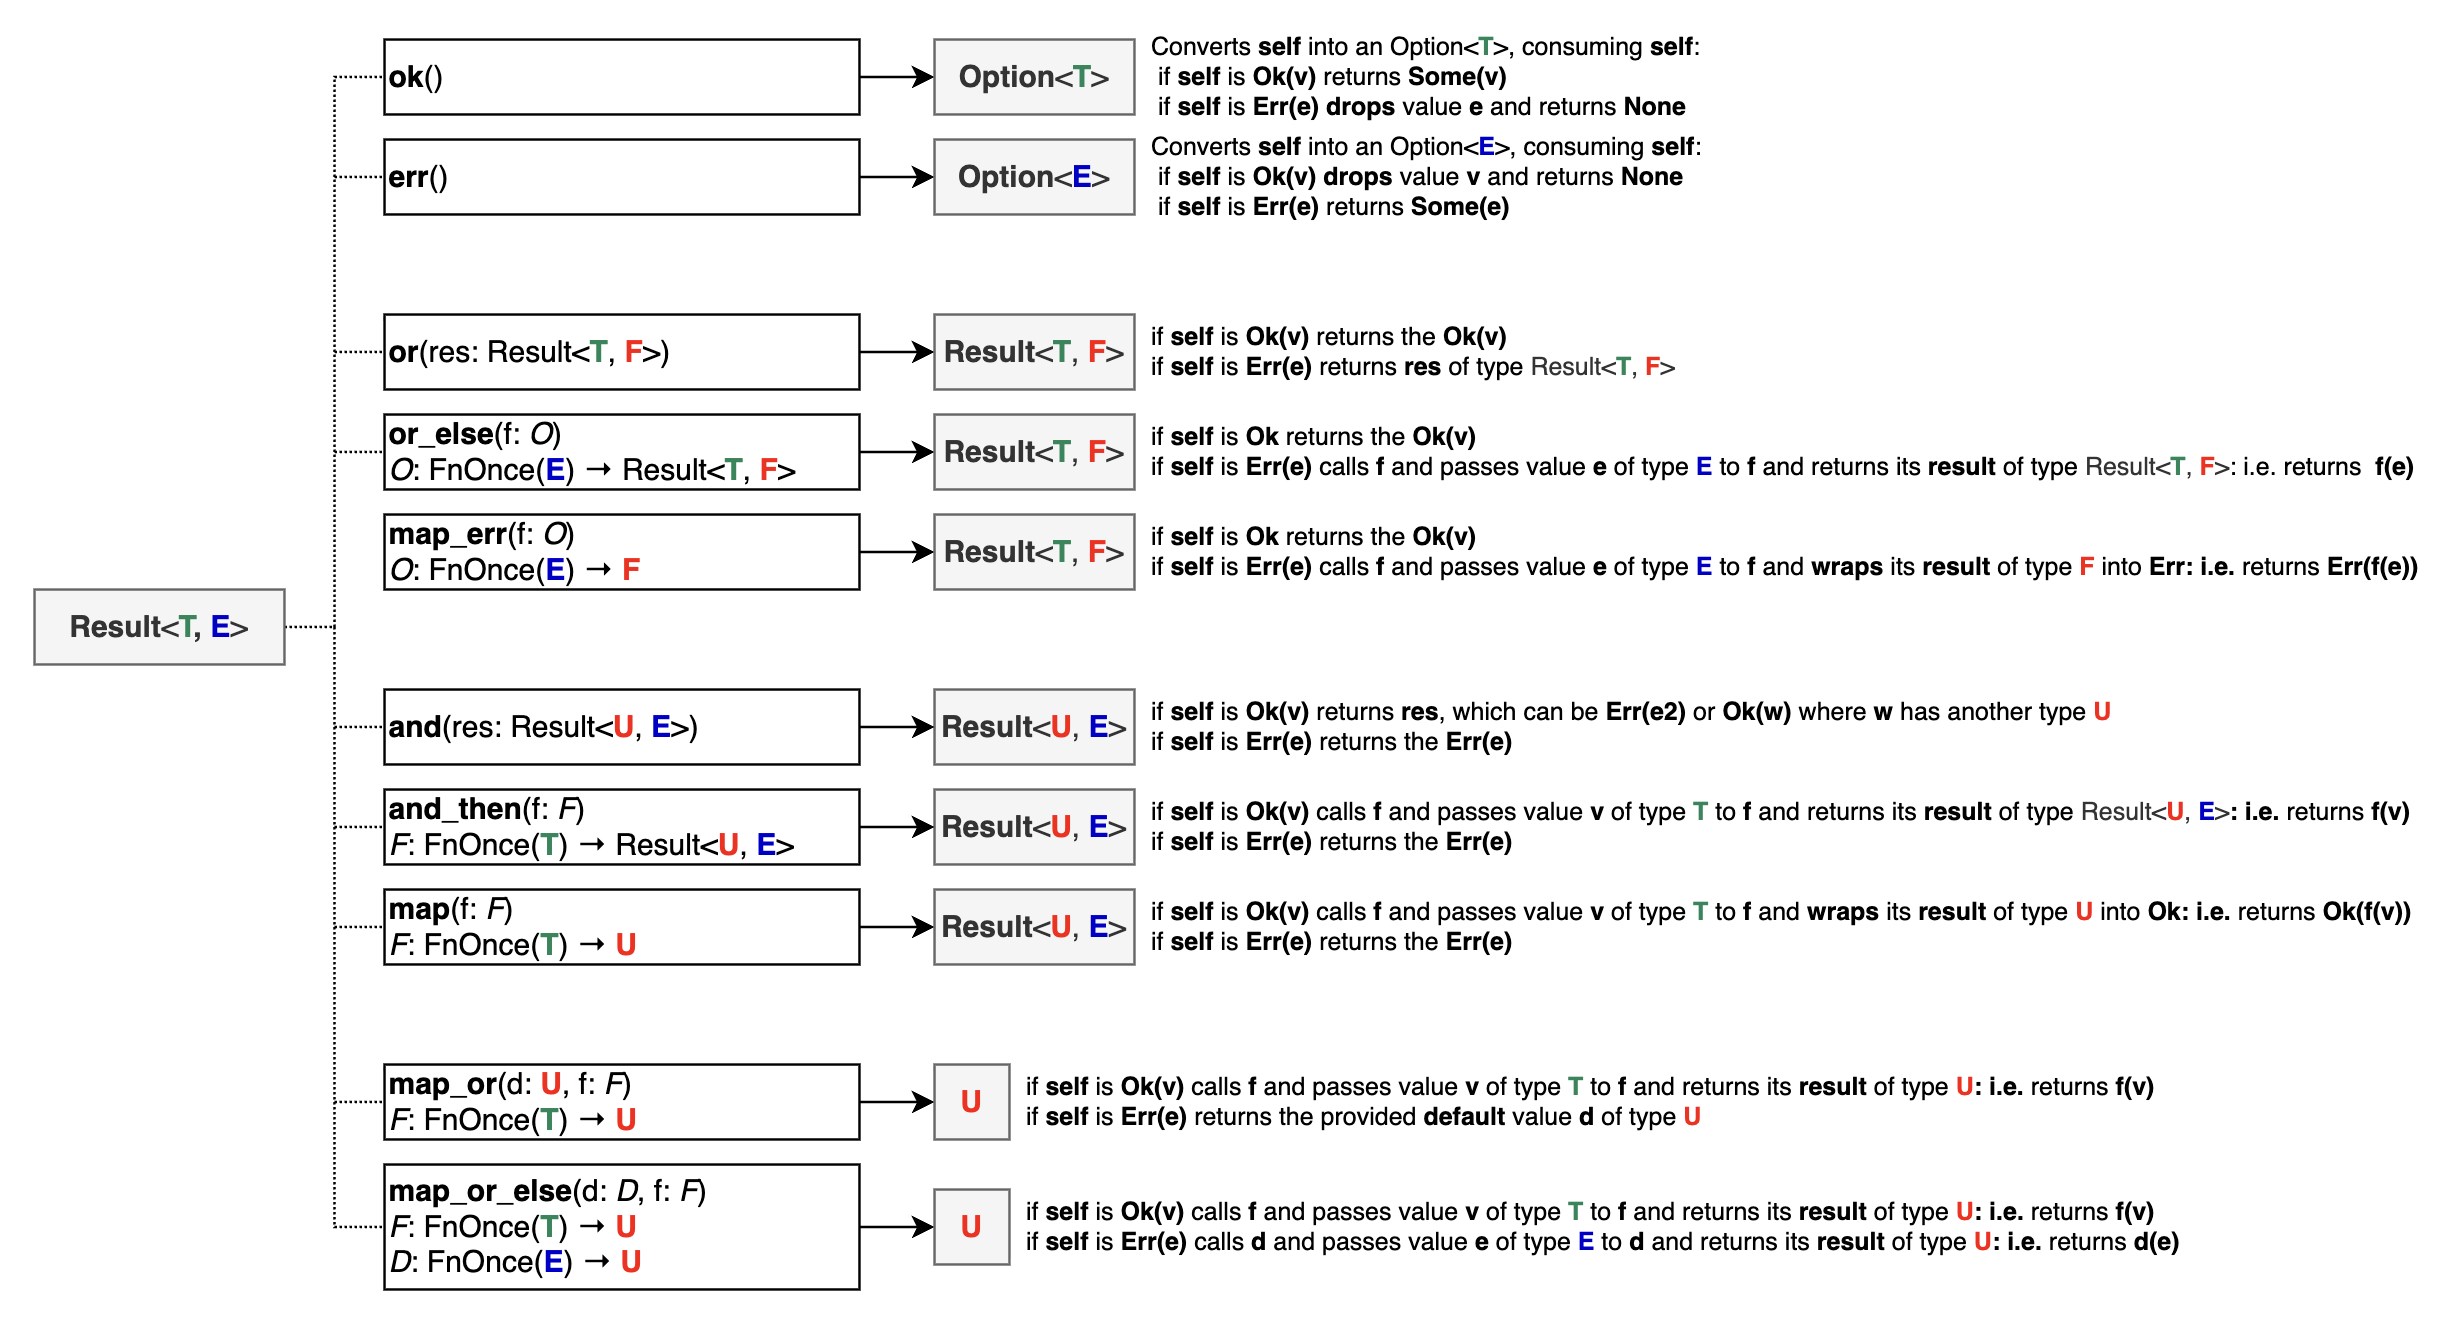
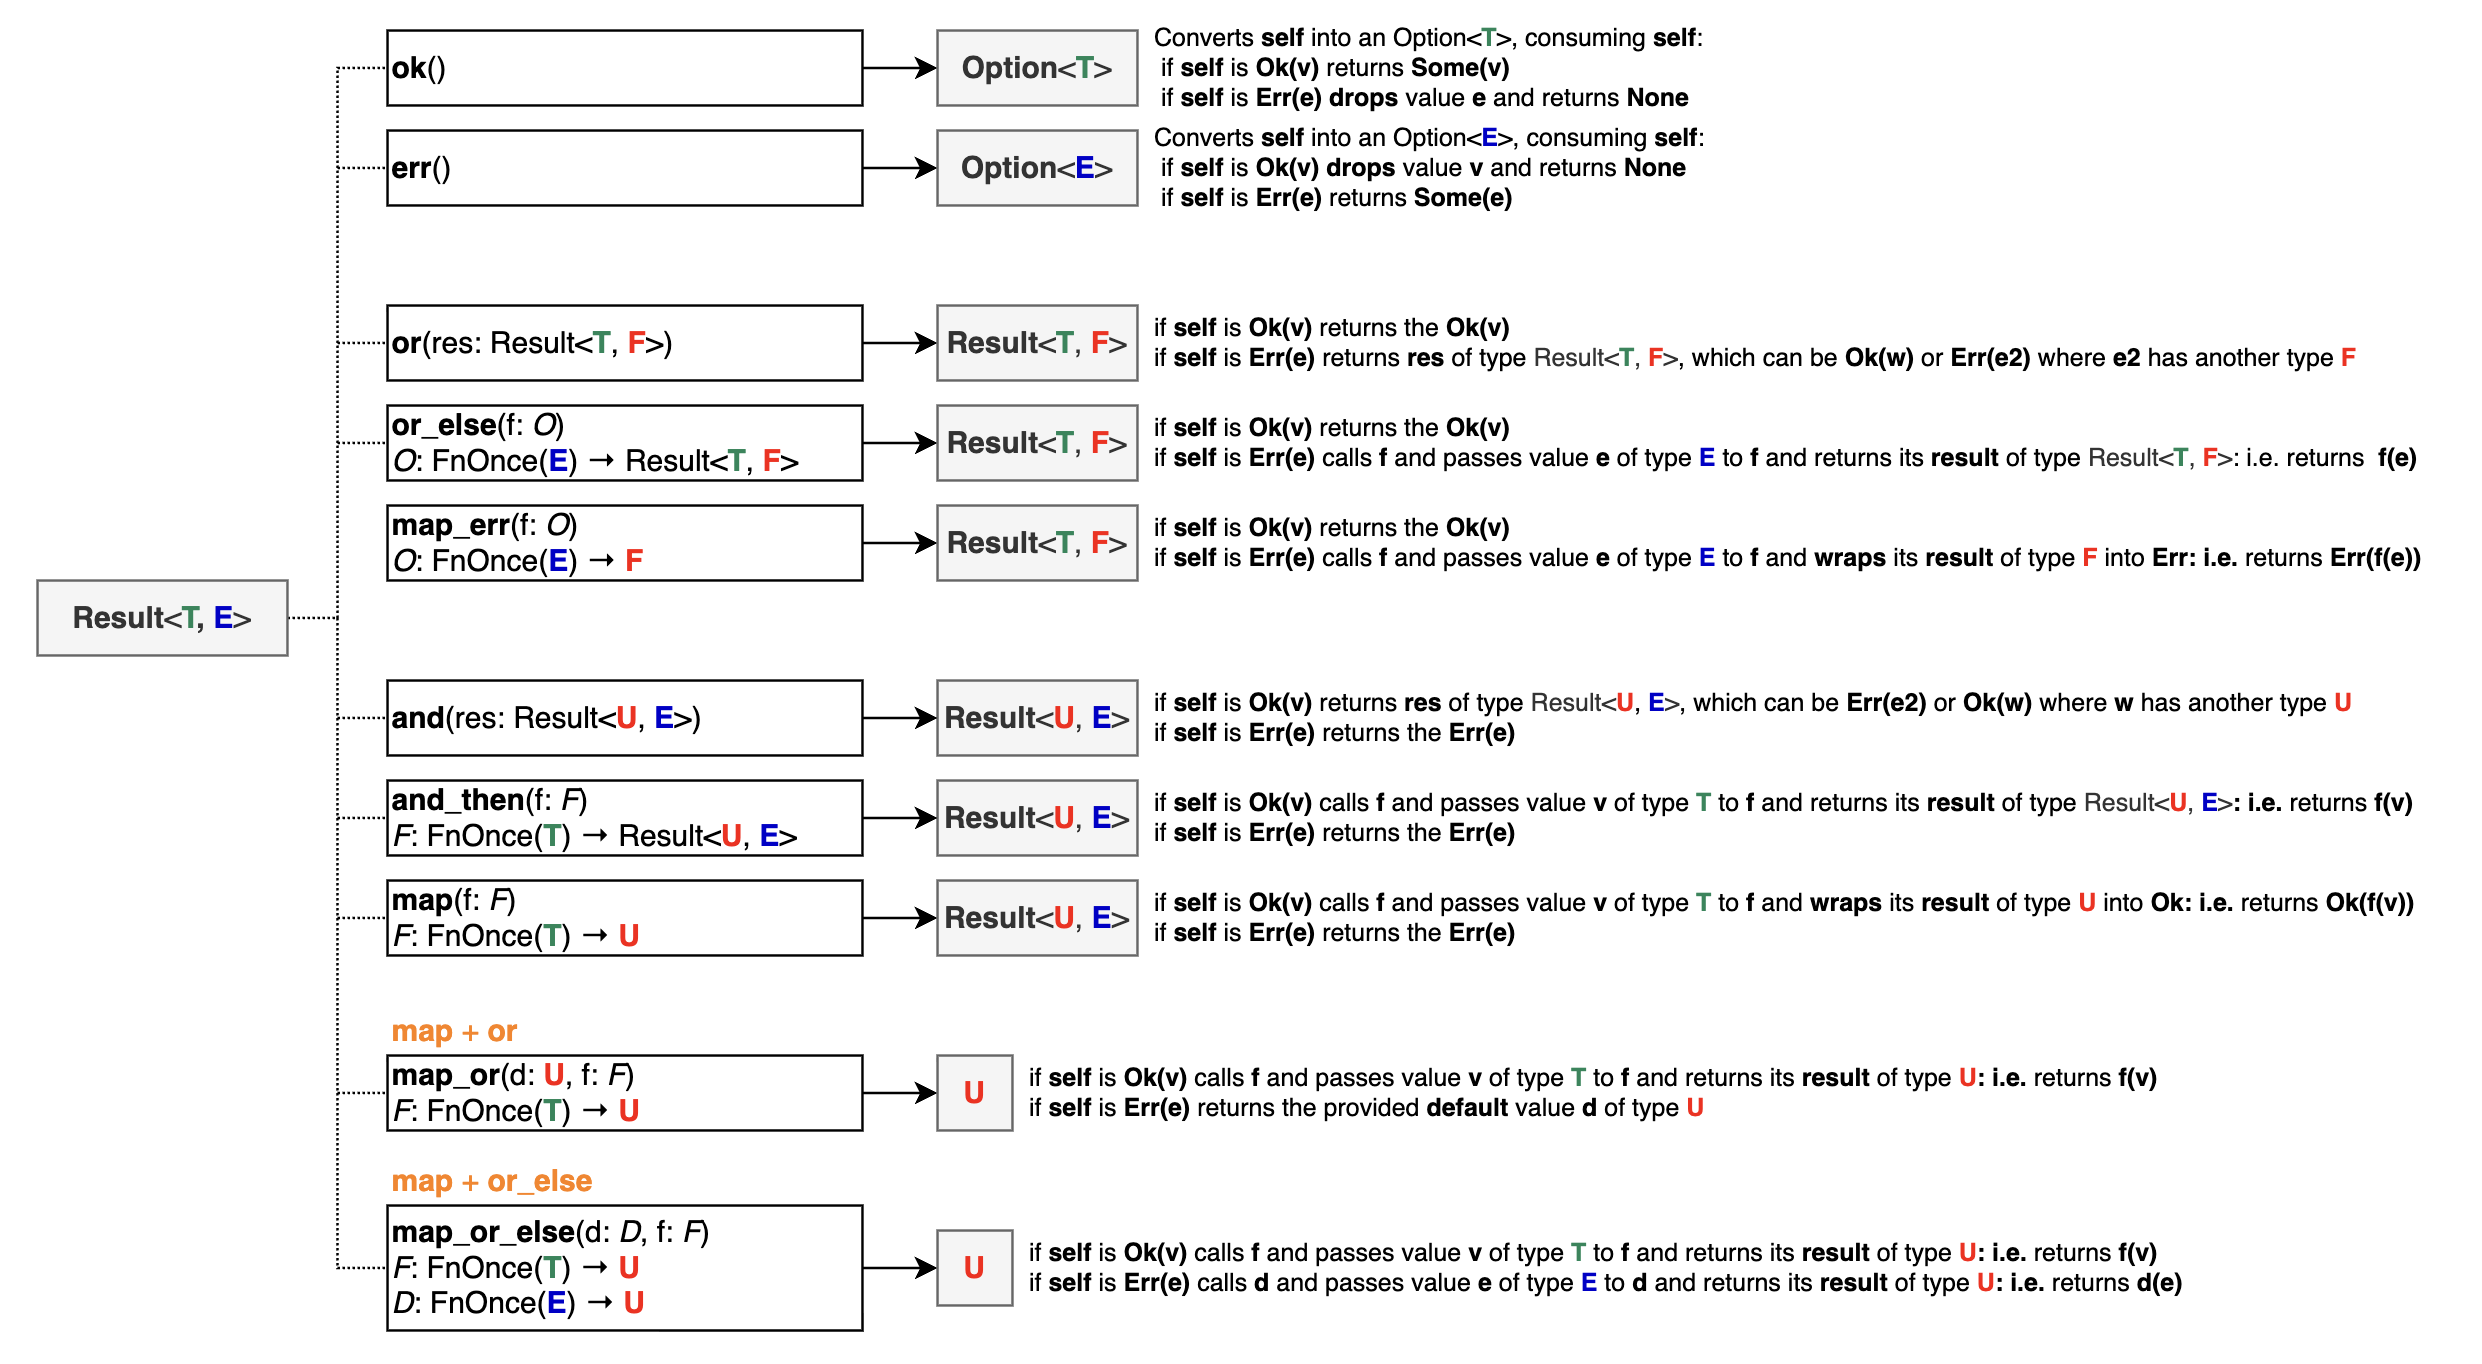
result + option

diff --git a/types/option-and-result/option.md b/types/option-and-result/option.md
@@ -119,6 +119,10 @@ some_message
 
 ## Methods for transforming the contained value
 ### Diagram
+![Option-or-and-map](/img/Option-or-and-2.png)
+
+<br>
+
 ![Option-or-and-map](/img/Option-or-and-map.png)
 
 <br>

diff --git a/types/option-and-result/result.md b/types/option-and-result/result.md
@@ -186,6 +186,10 @@ some_message: 1
 
 ## Methods for transforming the contained value
 ### Diagram
+![Result-or-and-map](/img/Result-or-and-2.png)
+
+<br>
+
 ![Result-or-and-map](/img/Result-or-and-map.png)
 
 <br>